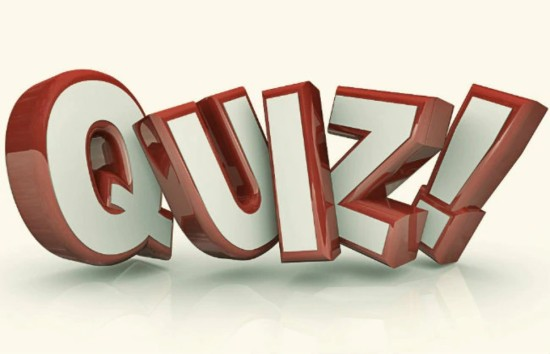
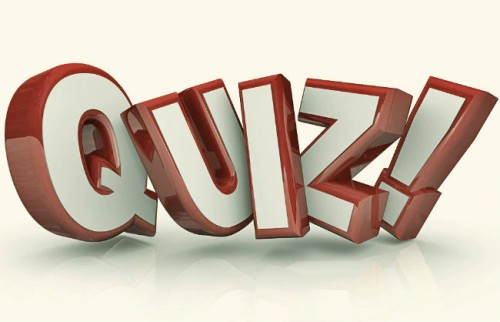
addition

Changed region(s): [[0.99, 0.3106, 1.0, 0.3416], [0.54, 0.6832, 0.57, 0.7143]]

diff --git a/css/styles.css b/css/styles.css
@@ -143,8 +143,8 @@ button{
 {
 	#main-image{
 	background:url("../images/image(1)_768.jpg") no-repeat;
-	height: 350px;
-	width: 550px;
+	height: 322px;
+	width:500px;
 	margin-left: 40px;
     }
 
@@ -160,6 +160,8 @@ button{
 		font-size: 5vw;
 	}
 }
+
+
 
 @media (max-width: 400px)
 {
@@ -189,24 +191,7 @@ button{
 	}
 }
 
-@media (min-width: 401) and (max-width: 540px)
-{
-	#main-image{
-	background:url("../images/image(1)_768.jpg") no-repeat;
-	height: 350px;
-	width:500px;
-	margin-left: 0px;
-	}
 
-	#brandname>a{
-		font-size: 7vw;
-	}
-
-	#head{
-		font-size: 5vw;
-	}
-
-}
 
 #result{
 	font-family: Lora;
